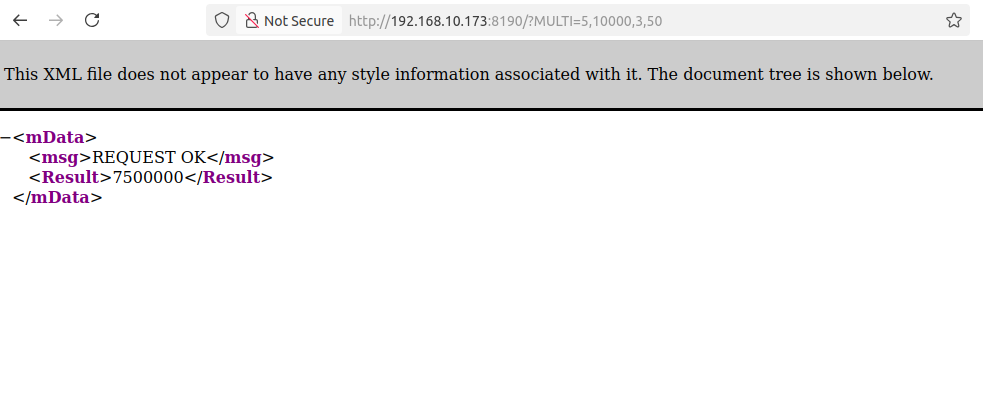
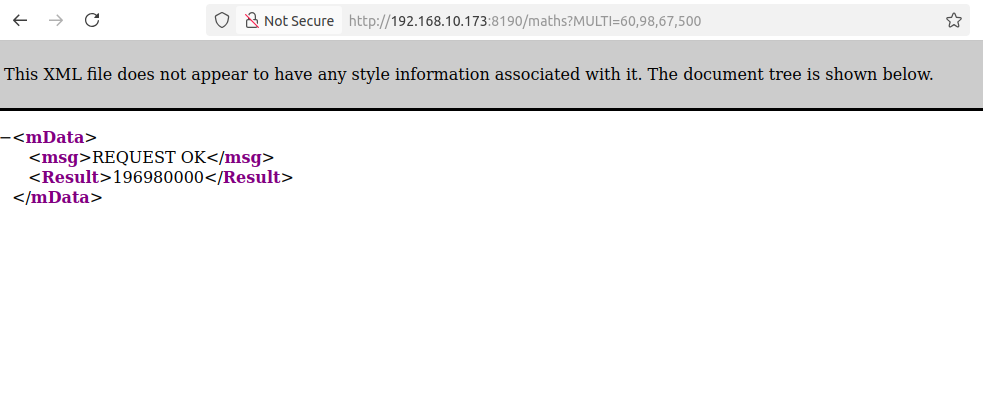
v001

Changed region(s): [[0.0916, 0.4158, 0.3052, 0.4752], [0.5188, 0.0297, 0.7325, 0.0891]]

diff --git a/HTTP_Handler.cpp b/HTTP_Handler.cpp
@@ -17,6 +17,7 @@ HTTP_Handler::HTTP_Handler(QObject *parent)
 {
     m_processRequest();
     obj_svr.listen("0.0.0.0", 8190);
+
 }
 /**
  * @brief m_ResultRequestedData
@@ -90,10 +91,22 @@ void HTTP_Handler::m_processRequest()
 {
     obj_svr.Get("/", [](const httplib::Request& req, httplib::Response& res)
     {
+        QString tmp = "<!DOCTYPE html> \
+                <html lang=\"en\"> \
+                <body> \
+                <h1>Core HTTP Server </h1> \
+                <p>For more use : ADD/MULTI/Details .</p> \
+                </body>\
+                </html>";
+        res.set_content(tmp.toStdString(),"text/html");
+    });
+
+
+    obj_svr.Get("/maths", [](const httplib::Request& req, httplib::Response& res)
+    {
         std::multimap<std::string, std::string> req_Params = req.params;
         QString t_Key, t_Values;
         for (const auto& [key, value] : req_Params) {
-                std::cout << key << " => " << value << std::endl;
                 t_Key = QString::fromStdString(key);
                 t_Values = QString::fromStdString(value);
                 qDebug()<< t_Key <<" -> " <<t_Values;
@@ -118,5 +131,40 @@ void HTTP_Handler::m_processRequest()
         res.set_content(str_response.toStdString(),"text/xml");
 
     });
+
+
+    obj_svr.Get("/Details", [](const httplib::Request& req, httplib::Response& res)
+    {
+        Q_UNUSED(req)
+        QProcess *objProcess = new QProcess;
+        auto os = QOperatingSystemVersion::currentType();
+        QByteArray res_data;
+        QString cmd;
+        QStringList args;
+
+        switch (os)
+        {
+        case QOperatingSystemVersion::Windows:
+            qDebug() << "Runtime OS: Windows";
+            cmd = "systeminfo";
+            objProcess->start(cmd,args);
+            objProcess->waitForFinished();
+            res_data = objProcess->readAllStandardOutput();
+            res.set_content(res_data.toStdString(),"text/plain");
+            break;
+        default:
+            qDebug() << "Runtime OS: LINUX";
+            cmd = "lshw";
+            args << "-html";
+            objProcess->start(cmd,args);
+            objProcess->waitForFinished();
+            res_data = objProcess->readAllStandardOutput();
+            res.set_content(res_data.toStdString(),"text/html");
+            break;
+        }
+
+        delete objProcess;
+    });
+
 
 }

diff --git a/HTTP_Handler.h b/HTTP_Handler.h
@@ -10,6 +10,8 @@
 #include <QObject>
 #include "httplib.h"
 #include "QDebug"
+#include "QProcess"
+#include "QOperatingSystemVersion"
 
 class HTTP_Handler : public QObject
 {

diff --git a/README.md b/README.md
@@ -26,7 +26,12 @@ comiple with anyone (Cmake/Qmake)
 
 		./CoreHttpServer
 		
-* Open web-browser http://localhost:8190/?xyz
+* Open web-browser http://localhost:8190/ or http://localhost:8190/maths?
+
+## Home Page
+
+![alt text](https://github.com/aks-arise1600/CoreHttpServer/blob/main/docs/Screenshots/Screenshot000.png?raw=true)
+
 
 ## ADDITION EXAMPLE
 
